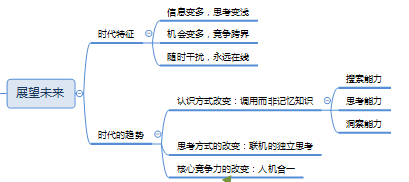
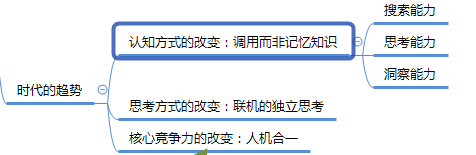
GitBook: [master] one page and 7 assets modified

Changed region(s): [[0.0, 0.0258, 0.9682, 1.0], [0.7922, 0.0258, 0.9389, 0.1032]]

diff --git a/yue_qian.md b/yue_qian.md
@@ -2,7 +2,7 @@
 
 ## 前言
 
-《跃迁》一书，作者古典老师从取势、明道、优术几个方面介绍了作为一个高手应该掌握的能力。并且最后回到了他的老本行职业生涯规划，介绍了高手应该成为一个什么样的人--内在修炼。纵观全书，我自己最大的几个收获就是：
+《跃迁》一书，作者古典老师从趋势、高手的“暗箱”、战略、学习、心态等几个方面介绍了作为一个高手应该掌握的能力。并且最后回到了他的老本行职业生涯规划，介绍了高手应该成为一个什么样的人--内在修炼。纵观全书，我自己最大的几个收获就是：
 
 * 问题比知识更重要。
 * 学什么、为什么学比怎么学更重要。
@@ -37,7 +37,7 @@
 
 真正的进取，要从身边的“头部区域“开始。
 
-## 取势
+## 时代的趋势
 
 ![trends of times](.gitbook/assets/image%20%283%29.png)
 
@@ -64,25 +64,67 @@
 
 并预言未来是一个教育无边界的时代，教育培训、出版、传媒、影视的便也会开始慢慢模糊。教育永存，老师也无可替代，未来的老师一定是一群“人机合一”的新教师。
 
-## 明道
+## 高手的“暗箱”
 
- 物有本末、事有终始，知所先后，则近道矣。--《大学》
+ 
 
-![](.gitbook/assets/image%20%285%29.png)
+![tricks](.gitbook/assets/image%20%281%29.png)
 
-作者书中多次提及的识局，我的理解就是明道。要看懂世界的底层规律，才能立于不败之地。作者通过拉斐尔投影仪的事件，表明了高手背后存在“暗箱”的可能性。而找到“暗箱”，则需要你理解这个世界底层的规律：
+高手的暗箱即高手的技巧、诀窍。作者以拉斐尔投影仪的故事为铺垫，阐述高手背后可能存在的暗箱：
 
 * 跃迁带来非线性增长
 * 掌握“时代魔法”才能高人一等
 * 外包大脑聚焦重要的能力才能成为“超人”
 
-## 优术
+**“没有一个人是仅凭努力、天赋、基于而获得巨大的成功的，跃迁式的成功都是利用了更底层规律，激发了个体的跨越式成长。”**
 
-### 如何找到“更少但是更好”的事？
+### 跨越式成长
 
+高手的成长都是跃迁式式的，非线性的，而这种非线性，就是本书标题的“跃迁”。跃迁很好理解，如果你学过物理，应该会明白原子的能力跃迁。或者拿生物来做比喻，人是由细胞堆积而成的，细胞又是由原子堆积而成的，但是简单的堆积原子并不能堆出一个人来，从原子到人的变化就是跃迁式的。
 
+实现自我跃迁的一般阶段是：认知跃迁-&gt;能力跃迁-&gt;能级跃迁。分别是意识上的、能力上的和社会地位上的跃迁。
 
+#### 认知跃迁
 
+认知跃迁的关键是范式的转变。重大的商业和技术突破，往往不是技术突破，而是对于技术的应用和认知方式带来的范式的突破。比如飞机的发明这个例子，人们缺的不是实现飞行的技术，而是对机械飞行原理（范式）的理解有问题。
+
+**“心智模式或者说范式的转 变，对内提升潜能，对外发现可能，这就是一个 人认知跃迁的关键。”**
+
+### 掌握时代的魔法
+
+在这个信息泛滥的时代，人最重要的能力就是把控自己的注意力、过滤信息、联机协作。
+
+### 外包大脑
+
+我们生活中有很多外包大脑的例子。比如公司把系统外包，上级把基础工作外包等。外包会使你失去一些锻炼，但是也恰恰会让你更加专注于更重要的能力，前提是你知道你应该做什么。如果你不知道你的目标，那么把大脑外包之后你会更加焦虑。有些上级总是插手下级的工作，就是一个例子。
+
+## 高手的战略
+
+![strategy](.gitbook/assets/image%20%282%29.png)
+
+明白了趋势，制定战略。
+
+在这个时代，我们的选择非常多，但是能选择的还是很有限的。怎么选，就成了一个重要的问题。作者认为如果我们有目标，那就努力进入目标的头部，如果没有目标，那就进入最热门的或者身边的头部。头部即是高价值区。
+
+### 高价值区是什么？
+
+我的理解是有目标才有高价值区。棒球手追求高击球率，所以他的高价值区是高几率击球区。股神追求高收入，所以他的高价值区是高收入，稳定的股票。新东方名师追求教学能力和社会地位。“学而思”追求市场。
+
+那么你的目标是什么？
+
+找到你的目标，然后确定高价值区，再思考优势。
+
+**“不要因为容易而去做一件事，要因为有价值才做。不要因为便宜而买一件衣服，要因为值得才买。不要因为彼此习惯了就结婚，要因为相爱才结。因为我们不怕苦，怕苦得没价值；不怕累， 怕累得没有意义。”**
+
+### 专注和迭代
+
+专注是防守，迭代是进攻。一旦你站在高价值区，你需要建立自己的护城河，而专注就是你方法。这里的专注是战略级别的专注，像“学而思”专注于小班、中学生、奥数一样。
+
+迭代则是高手的进攻方法。成功不靠才气，因为才气会耗尽，要靠可控可迭代的能力。
+
+**“妙手是成为高手的最大障 碍，迭代的手艺才是正途。”**
+
+## 高手是如何修炼的？
 
 
 
